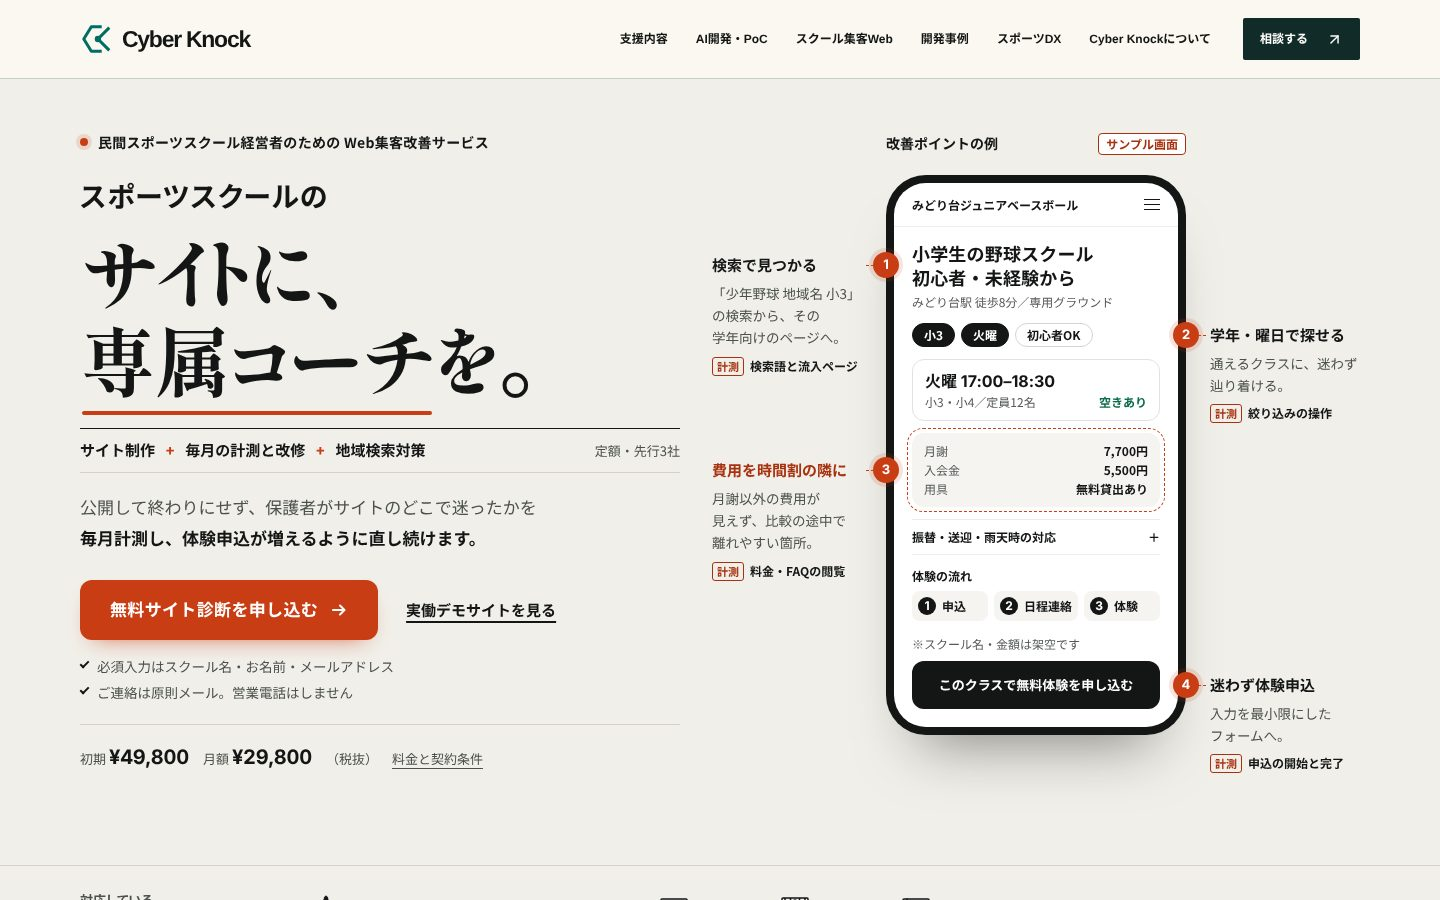
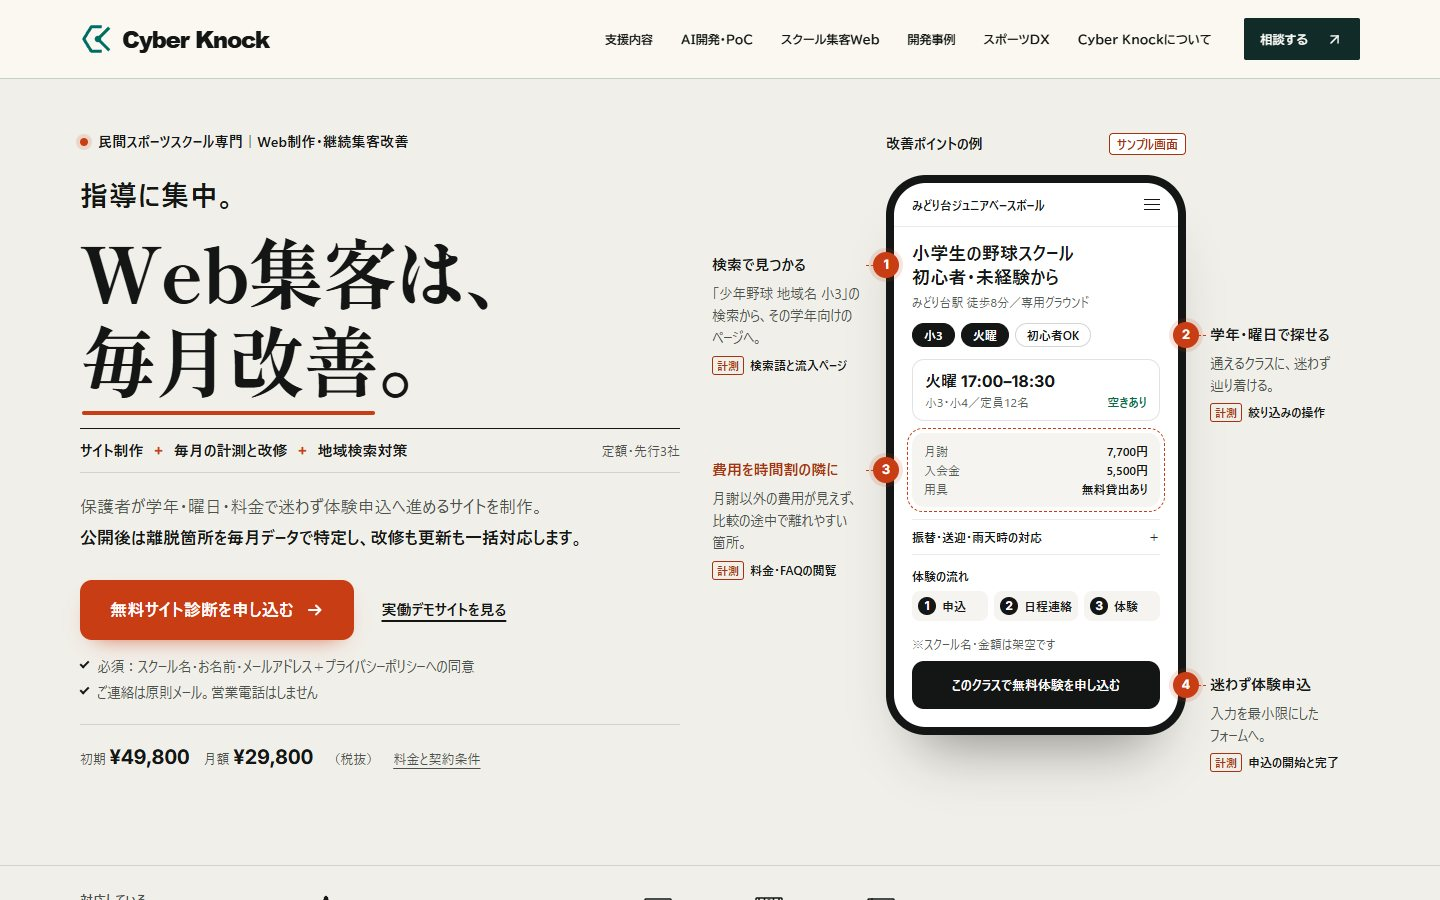
feat(growth-web): refine hero catchphrase and subcopy from market research

diff --git a/lib/growth-web/lp-content.ts b/lib/growth-web/lp-content.ts
@@ -12,9 +12,9 @@
 
 /** Headings rendered with the "GW Mincho" subset. Keep in sync with the components. */
 export const SERIF_TEXT = {
-  heroTitleLine1: "サイトに、",
-  heroTitleEm: "専属コーチ",
-  heroTitleTail: "を。",
+  heroTitleLine1: "Web集客は、",
+  heroTitleEm: "毎月改善",
+  heroTitleTail: "。",
   howTitleLine1: "毎月、サイトの",
   howTitleLine2: "フォームを直す。",
   trustTitleLine1: "依頼する前に、",
@@ -28,12 +28,12 @@ export const SERIF_TEXT = {
 export const INQUIRY_REQUIRED_FIELD_LABELS = ["スクール名", "お名前", "メールアドレス"] as const
 
 export const LP_HERO = {
-  eyebrow: "民間スポーツスクール経営者のための Web集客改善サービス",
-  kicker: "スポーツスクールの",
+  eyebrow: "民間スポーツスクール専門｜Web制作・継続集客改善",
+  kicker: "指導に集中。",
   definition: ["サイト制作", "毎月の計測と改修", "地域検索対策"],
   definitionNote: "定額・先行3社",
-  ledeLead: "公開して終わりにせず、保護者がサイトのどこで迷ったかを",
-  ledeStrong: "毎月計測し、体験申込が増えるように直し続けます。",
+  ledeLead: "保護者が学年・曜日・料金で迷わず体験申込へ進めるサイトを制作。",
+  ledeStrong: "公開後は離脱箇所を毎月データで特定し、改修も更新も一括対応します。",
   ctaLabel: "無料サイト診断を申し込む",
   demoLabel: "実働デモサイトを見る",
   assurances: [

diff --git a/app/services/growth-web/growth-web.css b/app/services/growth-web/growth-web.css
@@ -125,7 +125,6 @@ input[type="range"].gw-range::-moz-range-thumb {
 .gwl-h1 { margin-top: 16px !important; }
 .gwl-h1 .gwl-l1 { display: block; font-family: var(--sans); font-weight: 700; font-size: 21px; line-height: 1.45; letter-spacing: .02em; }
 .gwl-h1 .gwl-l2 { display: block; font-family: var(--serif); font-weight: 800; font-size: 43px; line-height: 1.24; letter-spacing: -.02em; margin-top: 6px; }
-.gwl-h1 .gwl-k1 { margin-right: -.07em; }
 .gwl-h1 .gwl-em { position: relative; white-space: nowrap; }
 .gwl-h1 .gwl-em::after { content: ""; position: absolute; left: .02em; right: .04em; bottom: -.02em; height: 3px; background: var(--mark); border-radius: 2px; }
 .gwl-def { list-style: none; display: flex; flex-wrap: wrap; align-items: center; gap: 6px 0; margin-top: 20px !important; padding: 10px 0 !important; border-top: 1px solid var(--ink); border-bottom: 1px solid var(--line); font-size: 14px; font-weight: 700; line-height: 1.5; }

diff --git a/components/growth-web/lp/LpHero.tsx b/components/growth-web/lp/LpHero.tsx
@@ -16,8 +16,7 @@ export function LpHero() {
             <h1 id="gwl-h1" className="gwl-h1">
               <span className="gwl-l1">{LP_HERO.kicker}</span>
               <span className="gwl-l2">
-                <span className="gwl-k1">{SERIF_TEXT.heroTitleLine1.slice(0, 1)}</span>
-                {SERIF_TEXT.heroTitleLine1.slice(1)}
+                {SERIF_TEXT.heroTitleLine1}
                 <br />
                 <span className="gwl-em">{SERIF_TEXT.heroTitleEm}</span>
                 {SERIF_TEXT.heroTitleTail}
